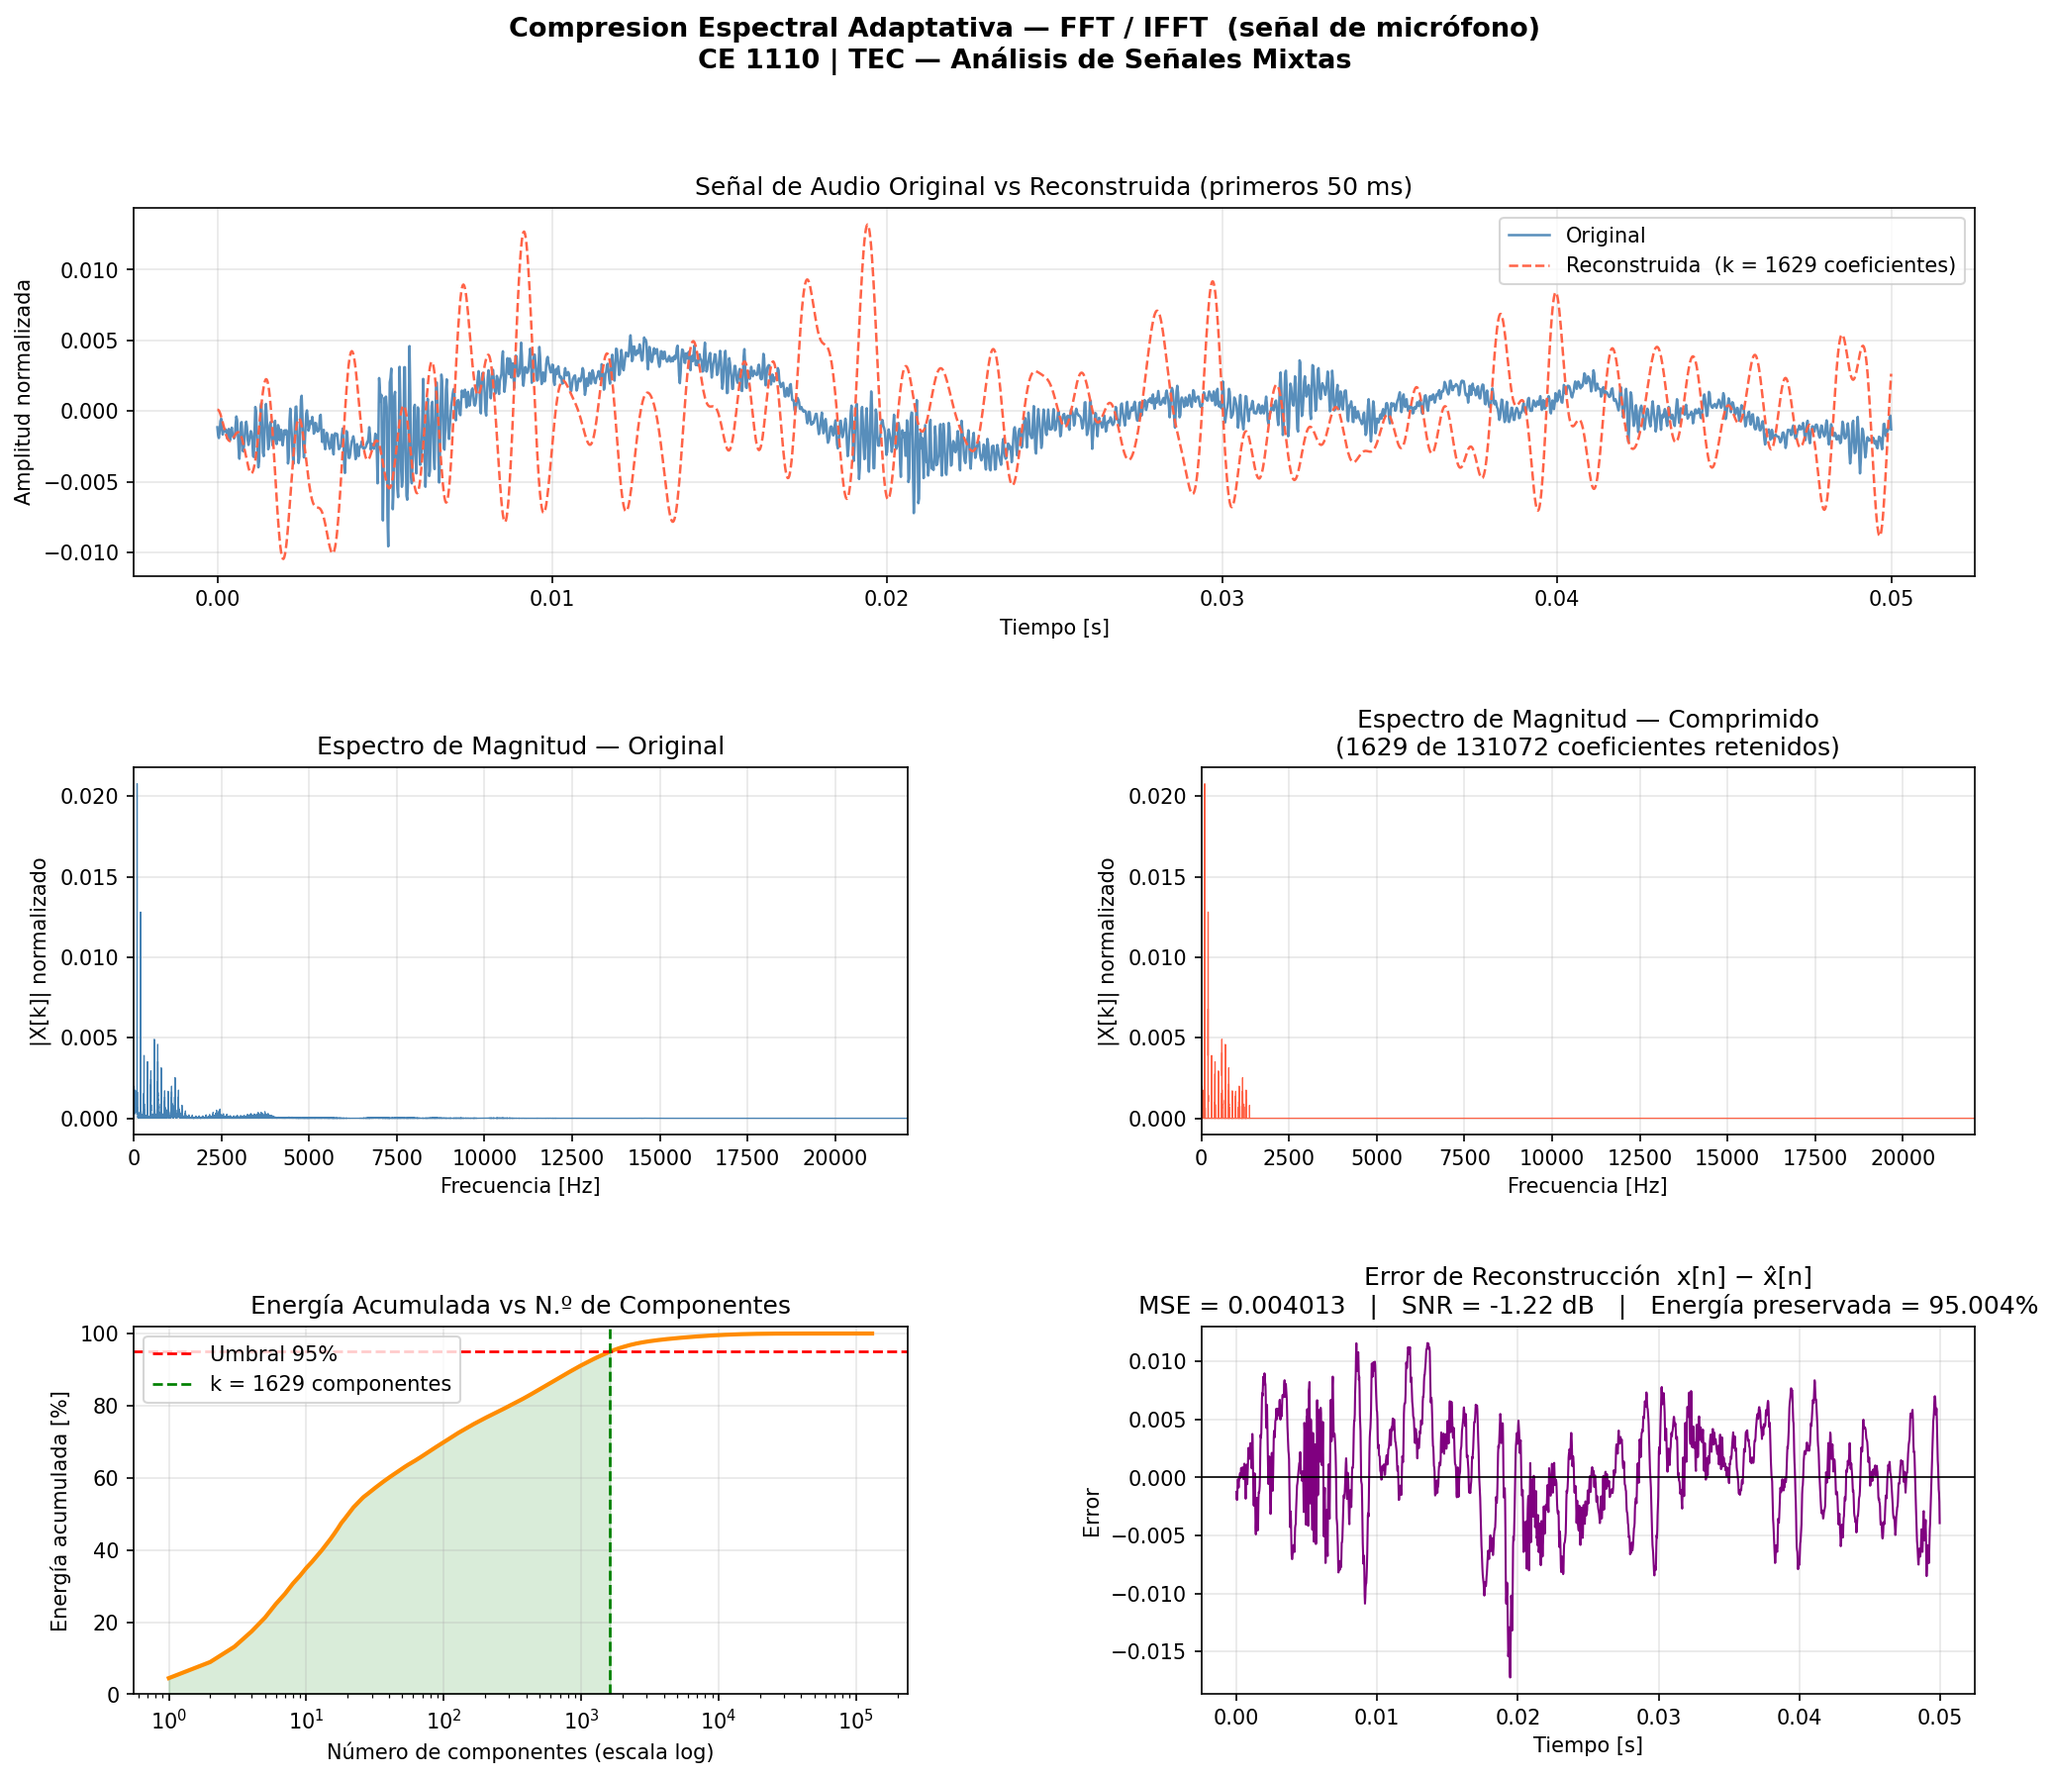
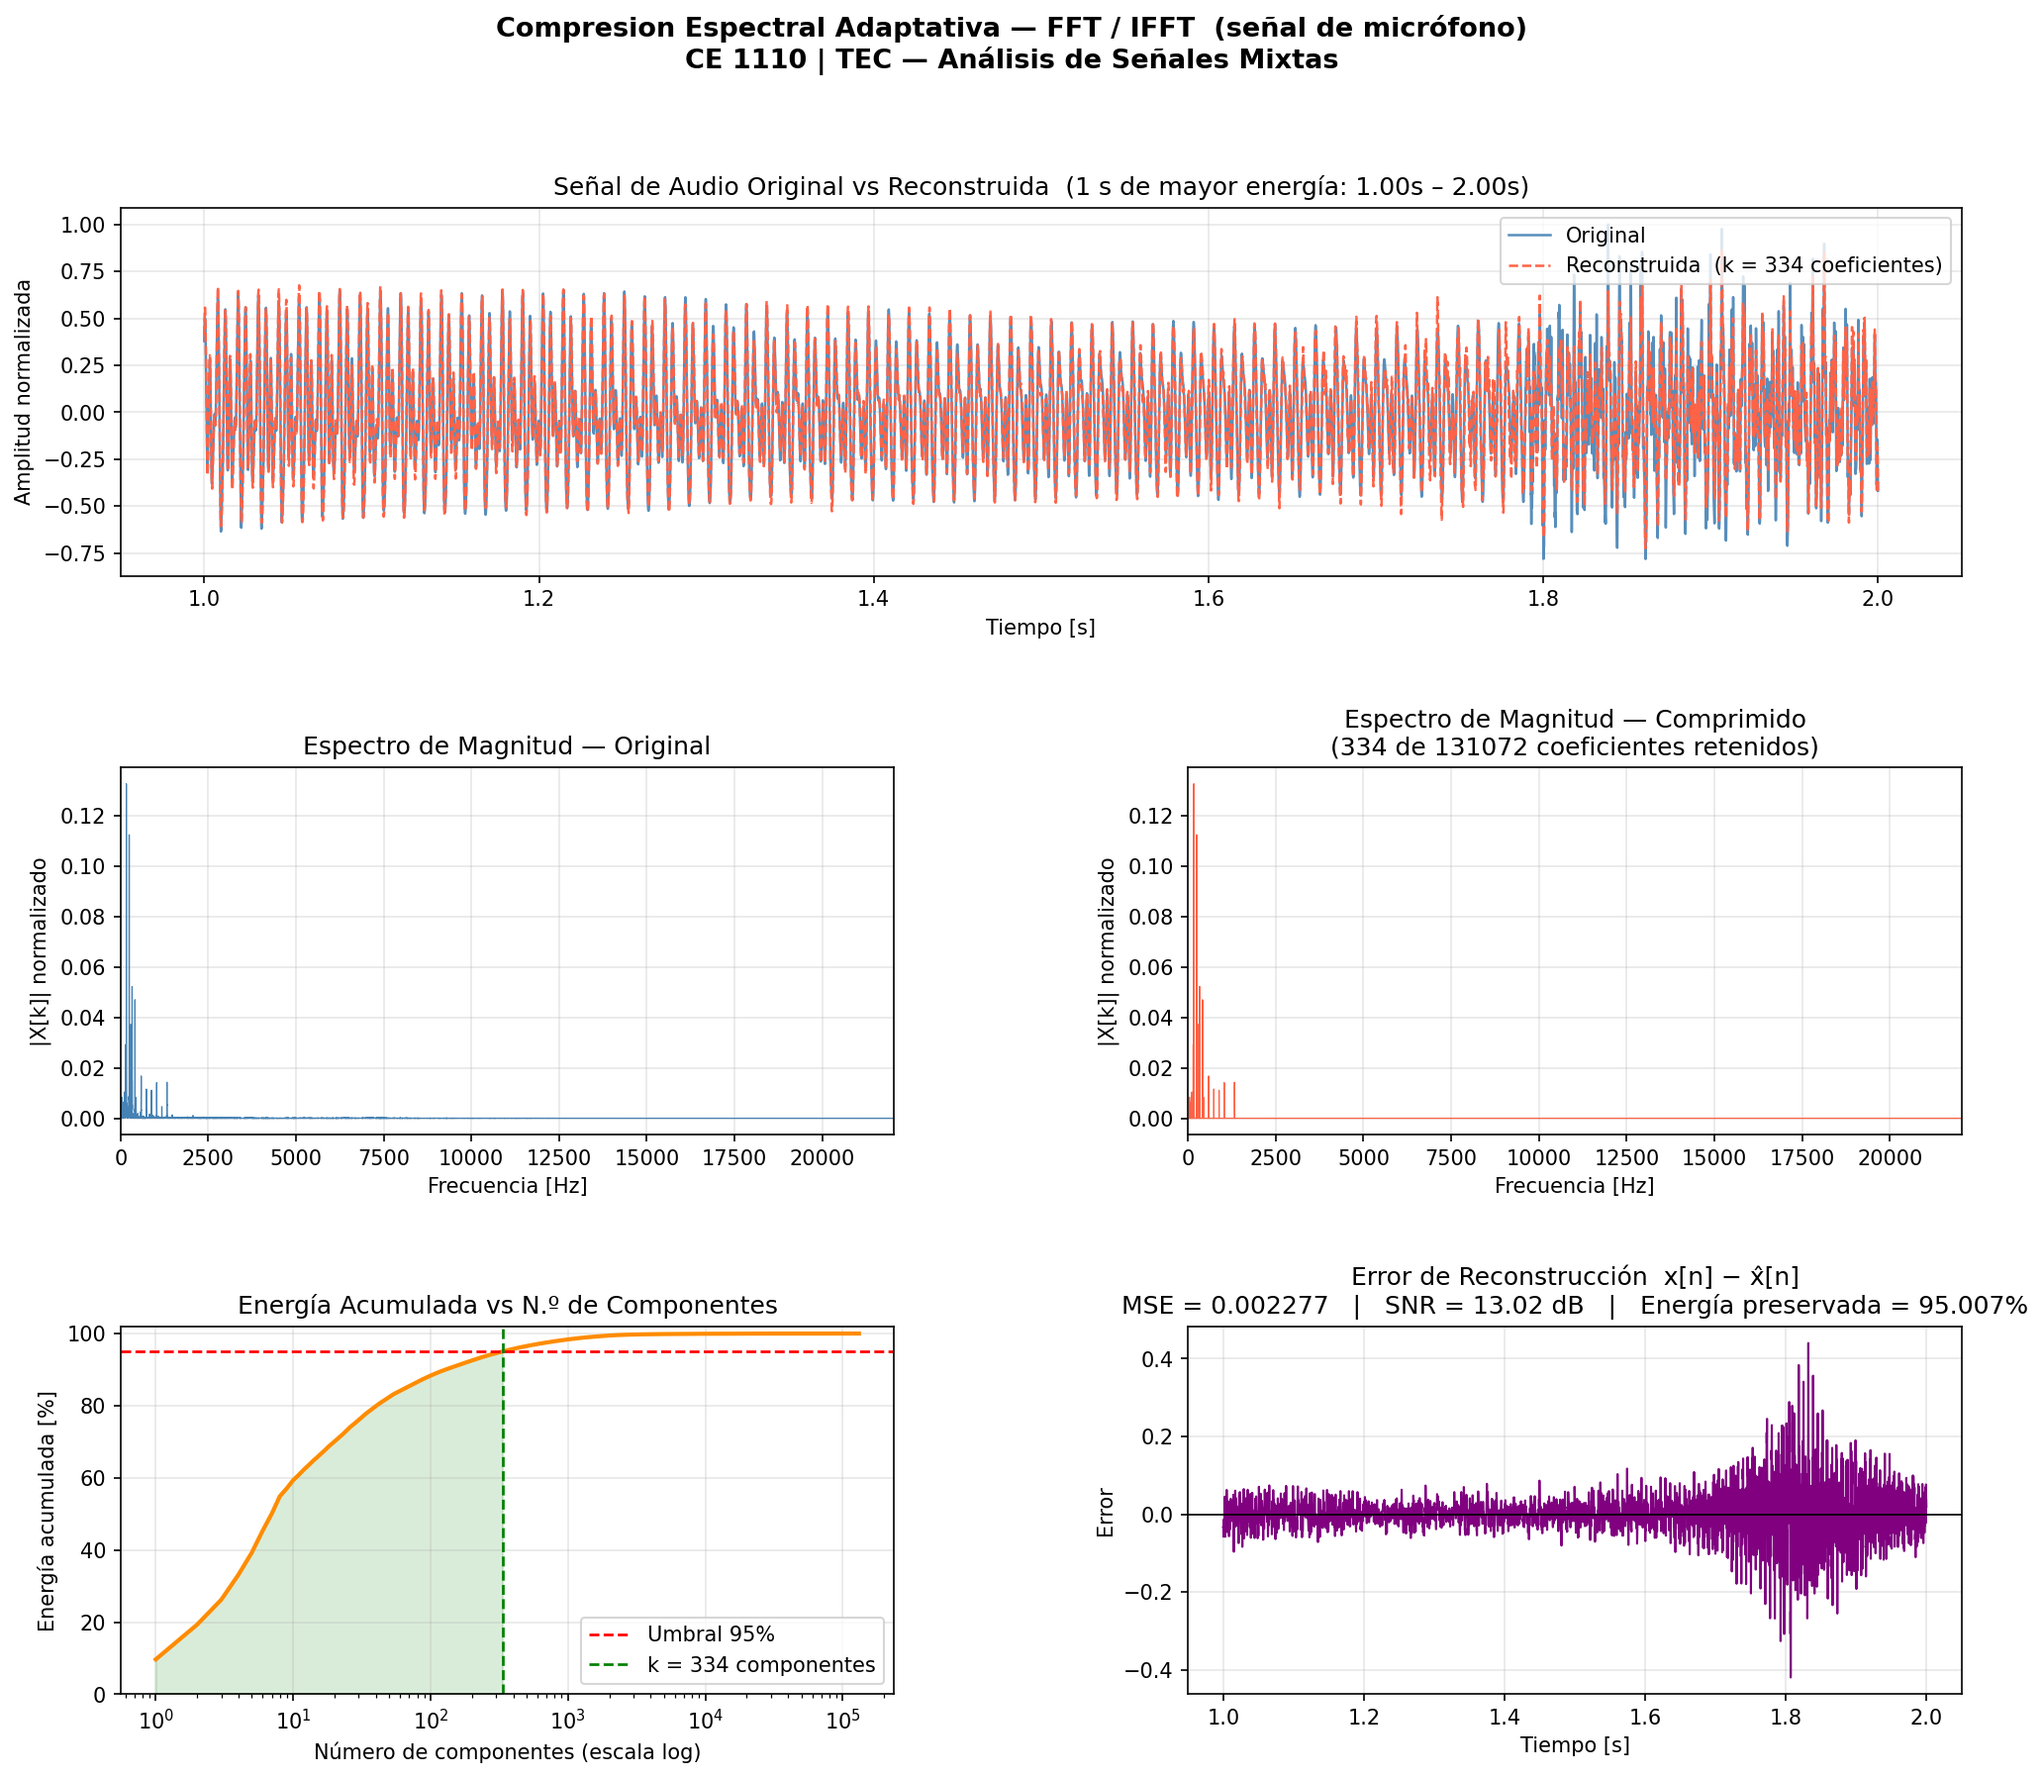
sound fix

diff --git a/Compressor/Compressor.py b/Compressor/Compressor.py
@@ -38,6 +38,23 @@ print(f"  Muestras usadas (2^k):      {N}  (2^{int(np.log2(N))})")
 print(f"  Duracion efectiva:          {N / fs:.3f} s")
 
 # =============================================================================
+# 1b. PRE-PROCESAMIENTO
+# =============================================================================
+# Paso 1 — Remover offset DC: el microfono introduce un bias constante que
+# aparece como X[0] con energia enorme. Sin esto el algoritmo desperdicia el
+# presupuesto del 95% en ese componente inutil.
+x = x - np.mean(x)
+
+# Paso 2 — Normalizar a [-1, 1]: garantiza que la señal ocupe el rango
+# completo independientemente del volumen de grabacion. Sin esto, una voz
+# grabada suavemente tiene energia muy pequena y los componentes seleccionados
+# producen una reconstruccion que visualmente parece "amplificada" porque sus
+# fases se suman constructivamente en ciertas regiones del bloque.
+pico = np.max(np.abs(x))
+if pico > 0:
+    x = x / pico
+
+# =============================================================================
 # 2. CALCULO DE LA FFT
 # =============================================================================
 # X[k] = sum_{n=0}^{N-1} x[n] * e^{-j*2*pi*k*n/N}
@@ -135,17 +152,34 @@ fig.suptitle(
 )
 gs = GridSpec(3, 2, figure=fig, hspace=0.52, wspace=0.38)
 
-# Mostrar los primeros 50 ms para apreciar la forma de onda
-muestra_fin = int(0.05 * fs)   # 50 ms = 2205 muestras a 44100 Hz
+# Buscar la ventana de 50 ms con mayor energia RMS en la señal original.
+# Los primeros 50 ms suelen ser silencio (antes de que el usuario hable),
+# lo que hace que la comparacion visual sea engañosa. Mostrar el segmento
+# mas activo da una comparacion honesta entre original y reconstruida.
+win_muestras = int(1.0 * fs)   # 1 s
+hop          = win_muestras // 4
+mejor_inicio = 0
+mejor_rms    = 0.0
+for inicio in range(0, N - win_muestras, hop):
+    rms = np.sqrt(np.mean(x[inicio : inicio + win_muestras] ** 2))
+    if rms > mejor_rms:
+        mejor_rms    = rms
+        mejor_inicio = inicio
+
+muestra_ini = mejor_inicio
+muestra_fin = mejor_inicio + win_muestras
+t_seg       = t[muestra_ini:muestra_fin]   # eje tiempo del segmento
+print(f"  Segmento mostrado:  {muestra_ini/fs:.3f} s – {muestra_fin/fs:.3f} s  (mayor energia RMS)")
 
 # ── 7.1  Señal original vs reconstruida (dominio tiempo) ─────────────────
 ax1 = fig.add_subplot(gs[0, :])
-ax1.plot(t[:muestra_fin], x[:muestra_fin],
+ax1.plot(t_seg, x[muestra_ini:muestra_fin],
          label='Original', color='steelblue', linewidth=1.2, alpha=0.9)
-ax1.plot(t[:muestra_fin], x_rec[:muestra_fin],
+ax1.plot(t_seg, x_rec[muestra_ini:muestra_fin],
          label=f'Reconstruida  (k = {k} coeficientes)',
          color='tomato', linewidth=1.2, linestyle='--')
-ax1.set_title("Señal de Audio Original vs Reconstruida (primeros 50 ms)")
+ax1.set_title(f"Señal de Audio Original vs Reconstruida  "
+              f"(1 s de mayor energía: {muestra_ini/fs:.2f}s – {muestra_fin/fs:.2f}s)")
 ax1.set_xlabel("Tiempo [s]")
 ax1.set_ylabel("Amplitud normalizada")
 ax1.legend(loc='upper right')
@@ -193,7 +227,7 @@ ax4.set_ylim([0, 102])
 # ── 7.5  Error de reconstrucción en el tiempo ─────────────────────────────
 error = x - x_rec
 ax5 = fig.add_subplot(gs[2, 1])
-ax5.plot(t[:muestra_fin], error[:muestra_fin], color='purple', linewidth=1.0)
+ax5.plot(t_seg, error[muestra_ini:muestra_fin], color='purple', linewidth=1.0)
 ax5.axhline(y=0, color='black', linewidth=0.8)
 ax5.set_title(
     f"Error de Reconstrucción  x[n] − x̂[n]\n"

diff --git a/Compressor/tempCodeRunnerFile.py b/Compressor/tempCodeRunnerFile.py
@@ -1,0 +1,1 @@
+import
